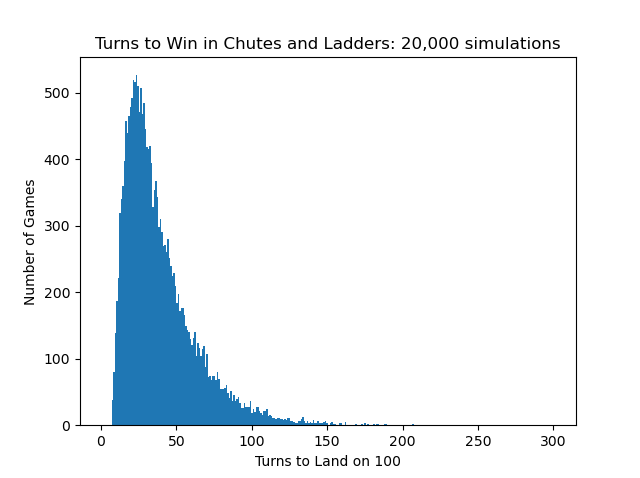
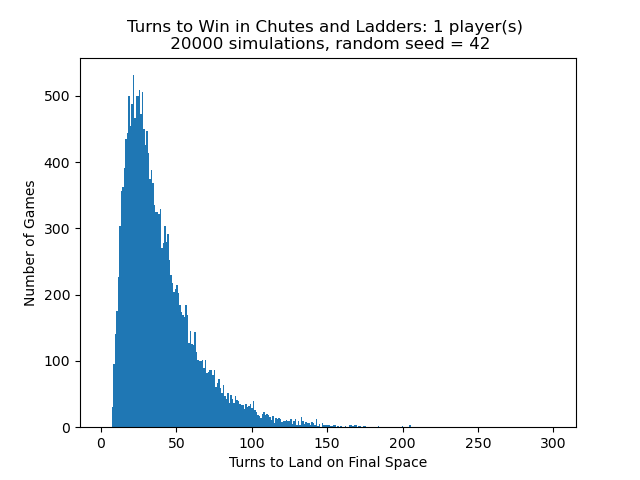
update simulations and figures with random.seed for reproducibility

diff --git a/main.py b/main.py
@@ -4,7 +4,7 @@ Uses the American standard Milton Bradley set of chutes and ladders, the roll of
 and the rule that a player must land exactly on square 100 to win.
 (If a role would take the player past 100, the player doesn't move.)
 Note: there is a variation in one chute; in some editions the one that ends at space 26
-starts at space 47, and in some it starts at space 48.
+starts at space 47, and in some it starts at space 48. This simulation uses space 47.
 """
 import random
 import statistics
@@ -25,12 +25,14 @@ def load_cnl():
     return cnl
 
 
-def turn_count_sim(n):
+def turn_count_sim(n, seed):
     """
-    simple count of total turns to finish a game. no data about the game is retained.
+    simple count of total turns to finish n games. no data about each game is retained.
     :param n: the number of single-player games to simulate
-    :return: list of turn counts for n single-player simulations
+    :param seed: random seed to use
+    :return: list of turn counts for n single-player simulations and the seed used
     """
+    random.seed(seed)
     turns = []
 
     # do n simulations
@@ -72,28 +74,36 @@ def turn_count_sim(n):
 
         turns.append(turn_count)
 
-    return turns
+    return turns, seed
 
 
-def turns_hist(turns):
+def turns_hist(turns, seed, num_players, filename):
     """
     prints histogram of turns for a single player to reach the end
     :param turns: list of turns from simulation
+    :param seed: seed used for simulation
+    :param num_players: number of players used in simulation
+    :param filename: name of file to save figure
     """
     plt.hist(turns, 300, (1, 300))
-    plt.title(f"Turns to Win in Chutes and Ladders: {len(turns)} simulations")
+    plt.title(f"Turns to Win in Chutes and Ladders: {num_players} player(s) \n "
+              f"{len(turns)} simulations, random seed = {seed}")
     plt.xlabel("Turns to Land on Final Space")
     plt.ylabel("Number of Games")
-    plt.show()
+    plt.savefig(filename)
 
 
-def sets_of_sims(n, count):
+def sets_of_sims(n, count, seed, filename):
     """
     simulates given numbers of simulations given number of times, calculates mean, median, mode, and
     standard deviation for each set of simulations, plots box plot for each stat
     :param n: number of simulation sets
     :param count: number of simulations in each set
+    :param seed: random seed to use
+    :param filename: name of file to save
     """
+    random.seed(seed)
+
     # Lists of stats for n simulations of count games
     mean = []
     median = []
@@ -101,7 +111,7 @@ def sets_of_sims(n, count):
     stdev = []
 
     for i in range(0, n):
-        turns = turn_count_sim(count)
+        turns, other_seed = turn_count_sim(count, random.random())
         mean.append(statistics.mean(turns))
         median.append(statistics.median(turns))
         mode.append(statistics.mode(turns))
@@ -116,17 +126,19 @@ def sets_of_sims(n, count):
     axs[1, 0].set_title('Mode')
     axs[1, 1].boxplot(stdev)
     axs[1, 1].set_title('Standard Deviation')
-    fig.suptitle(f"{n} Sets of {count} Simulations")
-    plt.show()
+    fig.suptitle(f"{n} Sets of {count} Simulations of \n Random Seed {seed}")
+    plt.savefig(filename)
 
 
-def full_sim(n):
+def full_sim(n, seed):
     """
     simulates n games, creates object Game for each game, returns list of n Games
     :param n: number of simulations
+    :param seed: random seed to use
     :return: list of Games
     """
     # list of Games
+    random.seed(seed)
     games = []
 
     for i in range(n):
@@ -180,15 +192,19 @@ def full_sim(n):
     return games
 
 
-def longest_slide(n):
+def longest_slide(n, seed, filename1, filename2):
     """
     Exploration of the longest chute in the game: space 87 to 24. Produces 2 plots, one shows the average
     length of a game for a given number of times the chute was traversed, the other shows in how many games the
     chute was traversed a given number of times. Could easily be modified for any other chute or ladder of interest.
     :param n: number of simulations to run
+    :param seed: random seed
+    :param filename1: name for file with first plot
+    :param filename2: name for file with second plot
     """
-    games = full_sim(n)
+    games = full_sim(n, seed)
 
+    # list of number of times down longest slide and number of turns for each game
     long_slide = []
 
     # get list of number of times longest slide traversed and total turns
@@ -199,34 +215,41 @@ def longest_slide(n):
     max_long = max([x[0] for x in long_slide])
     avg_turns = []
 
+    # consider each number of times slide traversed
     for i in range(0, max_long + 1):
+        # list of number of turns for each game where longest slide was traversed i times
         turns_i = [x[1] for x in long_slide if x[0] == i]
         if turns_i:
             mean_turns = statistics.mean(turns_i)
         else:
             mean_turns = 0
+        # Dataset: number of times down the slide, average game turns for that number
+        # and how many games in the simulation had that number
         avg_turns.append([i, mean_turns, len(turns_i)])
 
     plt.bar([x[0] for x in avg_turns], [x[1] for x in avg_turns])
     plt.xlabel("Number of times down the longest chute")
     plt.ylabel("Average number of turns")
-    plt.title(f"{n} Simulations: When You Keep Landing on Space 87")
-    plt.show()
+    plt.title(f"{n} Simulations: When You Keep Landing on Space 87 \n Random seed {seed}")
+    plt.savefig(filename1)
+    plt.clf()
 
     plt.bar([x[0] for x in avg_turns], [x[2] for x in avg_turns], log=True)
     plt.xlabel("Number of times down the longest chute")
     plt.ylabel("Number of games with this number of times")
-    plt.title(f"{n} Simulations: How Likely Are You to Land on Space 87?")
-    plt.show()
+    plt.title(f"{n} Simulations: How Likely Are You to Land on Space 87? \n Random seed {seed}")
+    plt.savefig(filename2)
 
 
-def compare_cnl(n):
+def compare_cnl(n, seed, filename):
     """
     Compare the frequency of traversing the 18 different chutes and ladders, produces bar chart of
     the average number of times each chute and ladder is traversed per game.
     :param n: number of simulations to run
+    :param seed: random seed to use
+    :param filename: name of file to save figure to
     """
-    games = full_sim(n)
+    games = full_sim(n, seed)
     cnl = load_cnl()
 
     # total number of times each chute or ladder was traversed
@@ -245,22 +268,26 @@ def compare_cnl(n):
 
     for square in start_squares:
         if cnl[square] < square:
-            color.append('red')
+            color.append('tab:red')
         else:
-            color.append('blue')
+            color.append('tab:blue')
         start_strings.append(str(square))
         avg_times.append(cnl_counts[square]/n)
 
     plt.bar(start_strings, avg_times, color=color)
-    plt.title(f"{n} Simulations: How Frequently Chutes and Ladders Traversed")
+    plt.title(f"{n} Simulations: How Frequently Chutes and Ladders Traversed \n Random Seed {seed}")
     plt.xlabel("Starting square of each chute and ladder")
     plt.ylabel("Average number of times per game traversed")
-    plt.show()
+    plt.savefig(filename)
 
 
 def main():
+    # turns_hist(*turn_count_sim(20000, 14), 1, 'Figure_3.png')
+    # sets_of_sims(200, 5000, 42, "Figure_2.png")
+    # longest_slide(500000, 14, 'Figure_4.png', 'Figure_5.png')
+    compare_cnl(500000, 25, 'Figure_6.png')
 
-    compare_cnl(100000)
+
 
 
 main()

diff --git a/README.md b/README.md
@@ -9,18 +9,20 @@ Figures 1 and 3 show histograms of two different simulations of 20,000 games. Th
 ![Figure 1](/Figure_1.png)
 ![Figure 3](/Figure_3.png)
 
-Figure 2 examines the statistics of simulation sets more closely. The mean, median, mode, and stadard deviation for number of turns for 5000 simulations was recorded and repeated 100 times. The box plots of Figure 2 show how these statistics differ accross the 100 sets of simulations. It is worth noting that the mean, median, and mode do not overlap at all, as the long tail of long games skews the results. The long games pull the mean up to around 39, while the median number of turns is around 32-33. But the most common number of turns is lower, varying from 15 to 28 across the different simulation sets.
+Figure 2 examines the statistics of simulation sets more closely. The mean, median, mode, and standard deviation for the number of turns from 5000 simulations was recorded and repeated 200 times. The box plots of Figure 2 show how these statistics differ across the 200 sets of simulations. 
+
+Note that the mean, median, and mode do not overlap at all, as the long tail of long games skews the results. The long games pull the mean up to around 39, while the median number of turns is around 32-33. But the most common number of turns is lower, varying from 17 to 30 across the different simulation sets.
 
 ![Figure_2](/Figure_2.png)
 
 Future work includes modeling this distribution as a Poisson distribution, possibly with modifications due to the fact that the minimum number of turns is 7, not 0.
 
 ## The Longest Chute
-The dreaded space 87 sends the poor player the whole way back to square 24. It seems that the more times one lands on this chute, the longer it takes to complete the game. Figure 4 shows that this intuition is correct. In 100,000 simulations, the longest chute was traversed as many as 11 times, and these games could last hundreds of turns.
+The dreaded space 87 sends the poor player the whole way back to square 24. It seems that the more times one lands on this chute, the longer it takes to complete the game. Figure 4 shows that this intuition is correct. In this sample of 500,000 simulations, the longest chute was traversed as many as 11 times, and these games could last hundreds of turns.
 
 ![Figure 4](/Figure_4.png)
 
-Games with many trips down the long chute are rare, however. Figure 5 shows that 0 is by far the most common number of times to land on square 87, while 9, 10, and 11 only occurred a few times in the 100,000 simulations.
+Games with many trips down the long chute are rare, however. Figure 5 shows that 0 is by far the most common number of times to land on square 87, while 9, 10, and 11 occurred less than 100 times each in the 500,000 simulations.
 
 ![Figure 5](/Figure_5.png)
 
